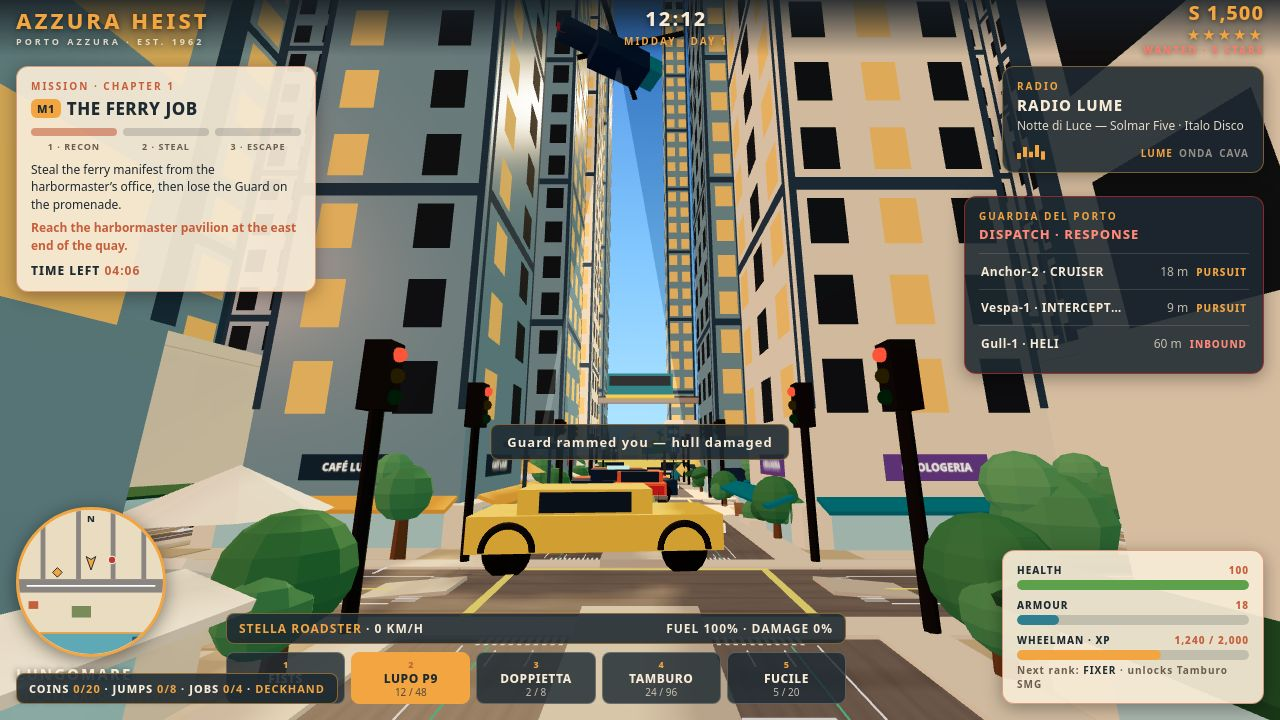
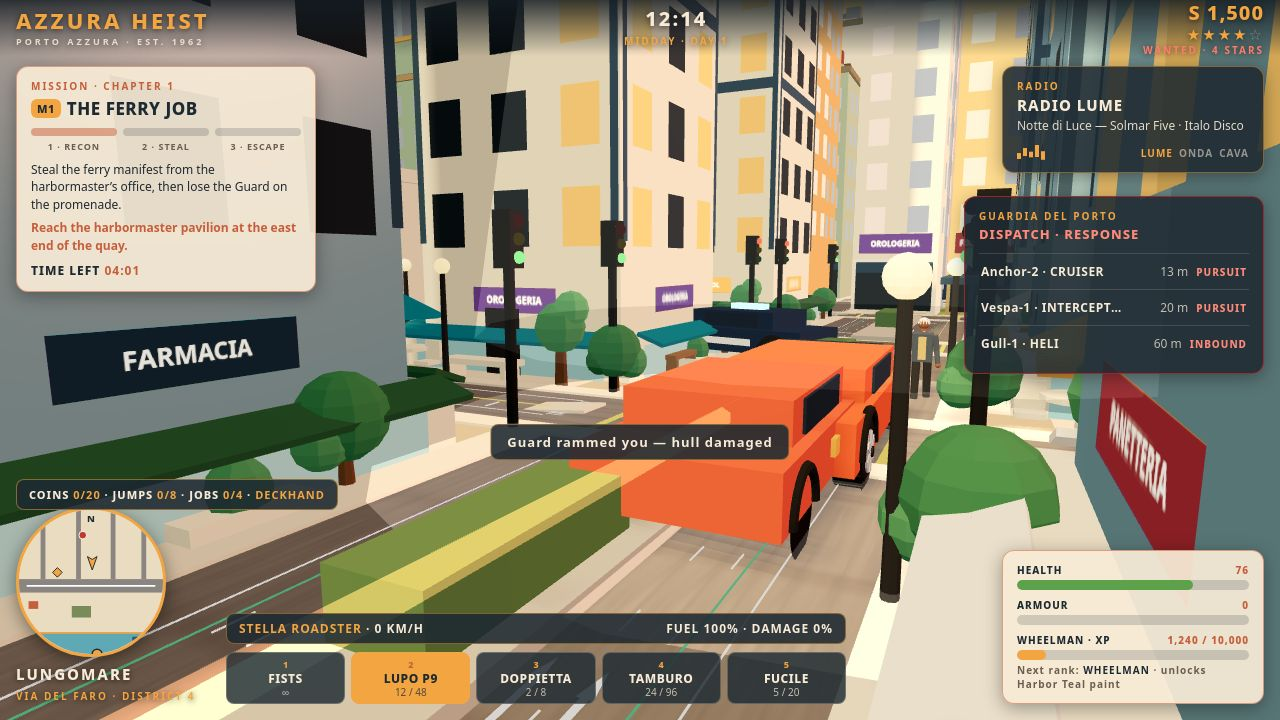
Retakes 11-12 post-fix M-1: 11C hero visible, traffic aligned (no more sideways cars)

diff --git a/reports/screenshot-retakes-2026-11-23.md b/reports/screenshot-retakes-2026-11-23.md
@@ -1,0 +1,56 @@
+# Screenshot retakes 11–12 — post-fix M-1 (23 Nov 2026, 08:21–08:25 WIB)
+
+Retake of shots 11 & 12 AFTER the M-1 traffic fix (`a794ce1`, 01:35 WIB —
+CBD traffic no longer 90° sideways). The v3 retakes (`31d0f76`, 00:56 WIB)
+were taken 39 minutes BEFORE that fix and still showed sideways traffic.
+Script: `~/workspace/makefun/gta6-01/shot-retakes3.mjs` (v3, unchanged).
+Server: no-cache port 8941, `/tmp/node_modules` symlink. Playwright
+Chromium, 1280×720, JPEG quality 80. Same filenames (overwrite).
+
+## 11 — 11-drama-chase-low.jpg (147,681 B, lum 144, flat 0.083, 230 calls, 0 errors)
+
+Variant 11C (not 11B): hero car in the right lane (x=1), camera right-front
+3/4 at (3.0, 2.6, -13) looking at (-2, 1.0, -23). Staging at capture:
+wanted level 4, cruiser 13.9 m at (-12.7, -24.6) approaching from the west
+cross-street, heli visible at (2.2, 24, -19.8), health 100, mode play.
+11B was run first (158,253 B, lum 129) and READ, then replaced: its hero
+car was not in frame at all (camera tilted up, car below the frame edge)
+— same weakness as v3. 11C keeps the better frame.
+
+Read by the builder (not just staging metrics):
+- Hero car BIG, bright orange-red Stella Roadster, centre frame, 3/4 rear
+  view, aligned with the avenue. Cruiser dark blue behind it on the road,
+  also aligned — NO sideways traffic anywhere in frame. M-1 fix VERIFIED
+  visually.
+- HUD complete: M1 THE FERRY JOB card, RADIO LUME, dispatch (CRUISER 13 m
+  PURSUIT, Vespa-1 20 m, Gull-1 HELI 60 m INBOUND), 4 stars, minimap,
+  health/armour/XP, weapon bar, STELLA ROADSTER 0 KM/H.
+- Street reads: FARMACIA left, PANETTERIA right, OROLOGERIA, trees,
+  green traffic lights, street lamps.
+- Kritik jujur: heli MESH not in frame (only the dispatch line) — low cam
+  still cannot fit y=24; no pedestrians clearly visible (placed peds did
+  not read in frame); "Guard rammed you" toast crosses the hero car.
+
+## 12 — 12-chase-noncbd.jpg (129,681 B, lum 149, flat 0.16, 101 calls, 0 errors)
+
+Variant 12 (unchanged staging): ring east, car (45, -42) facing east,
+camera (36, 4, -42). Staging at capture: wanted level 3, cruiser 8.7 m
+at (36.3, -42.9), heli visible at (46.5, 24, -40), health 100, mode play.
+
+Read by the builder:
+- Hero car bright orange-red, centre-bottom, rear view, aligned with the
+  road. Cruiser dark blue to the right of the hero, 3/4 rear view, also
+  aligned — NO sideways traffic. M-1 fix VERIFIED visually.
+- HUD complete: M1 card, RADIO LUME, dispatch (CRUISER 32 m PURSUIT,
+  Vespa-1 16 m, Gull-1 HELI 60 m INBOUND), 3 stars, minimap, weapon bar.
+- TABACCHI shop + café tables left, old-quarter towers ahead.
+- Kritik jujur: no pedestrians visible (2 placed peds did not read in
+  frame); cruiser sits beside the hero rather than behind, so it reads
+  as a chase alongside, not a tail chase; road ahead is empty.
+
+## Open (carried, unchanged from v3)
+
+- Placed peds visible in NEITHER new shot — the staging placements still
+  do not read as people in frame.
+- Heli mesh fits no low-cam frame (only dispatch text); a heli-in-frame
+  shot needs a different (higher/wider) camera, out of scope here.
